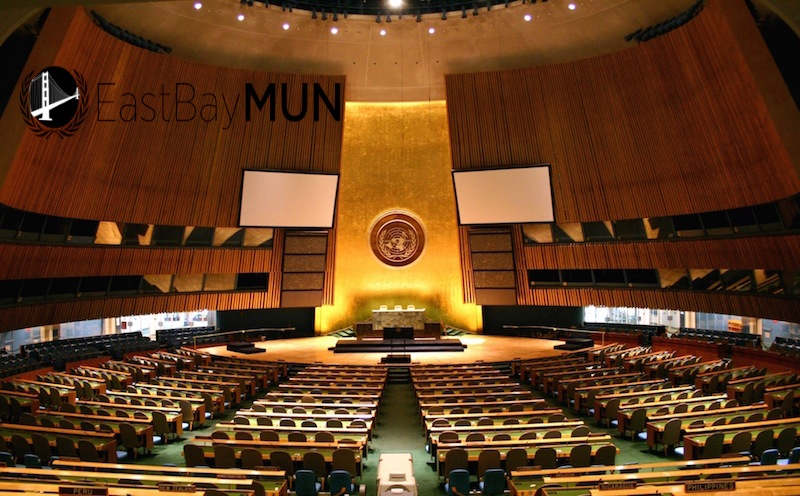
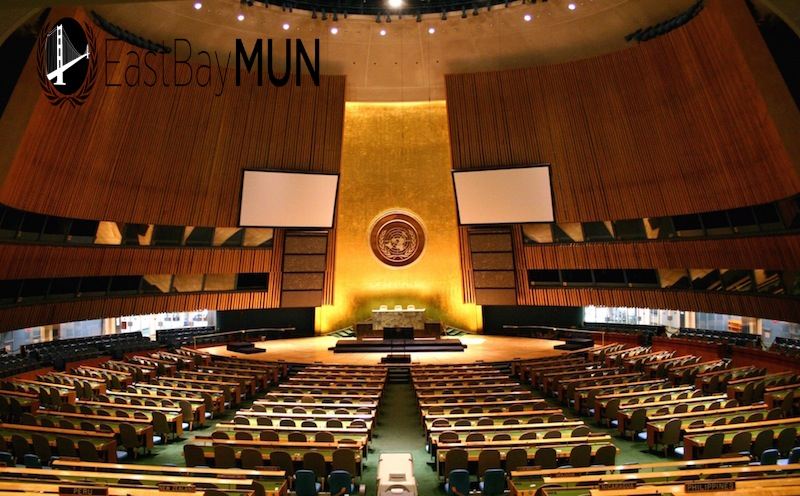
image reposition (^:

Changed region(s): [[0.0, 0.0302, 0.4375, 0.2722]]

diff --git a/css/agency.css b/css/agency.css
@@ -1,1 +1,1 @@
-body{background-color: lightblue;overflow-x:hidden;font-family:"Roboto Slab","Helvetica Neue",Helvetica,Arial,sans-serif}.text-muted{color:#777}.text-primary{color:#fed136}p{font-size:14px;line-height:1.75}p.large{font-size:16px}a,a:hover,a:focus,a:active,a.active{outline:0}a{color:#fed136}a:hover,a:focus,a:active,a.active{color:#fec503}h1,h2,h3,h4,h5,h6{font-family:Montserrat,"Helvetica Neue",Helvetica,Arial,sans-serif;text-transform:uppercase;font-weight:700}.img-centered{margin:0 auto}.bg-light-gray{background-color:#f7f7f7}.bg-darkest-gray{background-color:#222}.btn-primary{color:#fff;background-color:#0000FF;border-color:#fed136;font-family:Montserrat,"Helvetica Neue",Helvetica,Arial,sans-serif;text-transform:uppercase;font-weight:700}.btn-primary:hover,.btn-primary:focus,.btn-primary:active,.btn-primary.active,.open .dropdown-toggle.btn-primary{color:#fff;background-color:#fec503;border-color:#f6bf01}.btn-primary:active,.btn-primary.active,.open .dropdown-toggle.btn-primary{background-image:none}.btn-primary.disabled,.btn-primary[disabled],fieldset[disabled] .btn-primary,.btn-primary.disabled:hover,.btn-primary[disabled]:hover,fieldset[disabled] .btn-primary:hover,.btn-primary.disabled:focus,.btn-primary[disabled]:focus,fieldset[disabled] .btn-primary:focus,.btn-primary.disabled:active,.btn-primary[disabled]:active,fieldset[disabled] .btn-primary:active,.btn-primary.disabled.active,.btn-primary[disabled].active,fieldset[disabled] .btn-primary.active{background-color:#fed136;border-color:#fed136}.btn-primary .badge{color:#fed136;background-color:#fff}.btn-xl{color:#fff;background-color:#fed136;border-color:#fed136;font-family:Montserrat,"Helvetica Neue",Helvetica,Arial,sans-serif;text-transform:uppercase;font-weight:700;border-radius:3px;font-size:18px;padding:20px 40px}.btn-xl:hover,.btn-xl:focus,.btn-xl:active,.btn-xl.active,.open .dropdown-toggle.btn-xl{color:#fff;background-color:#fec503;border-color:#f6bf01}.btn-xl:active,.btn-xl.active,.open .dropdown-toggle.btn-xl{background-image:none}.btn-xl.disabled,.btn-xl[disabled],fieldset[disabled] .btn-xl,.btn-xl.disabled:hover,.btn-xl[disabled]:hover,fieldset[disabled] .btn-xl:hover,.btn-xl.disabled:focus,.btn-xl[disabled]:focus,fieldset[disabled] .btn-xl:focus,.btn-xl.disabled:active,.btn-xl[disabled]:active,fieldset[disabled] .btn-xl:active,.btn-xl.disabled.active,.btn-xl[disabled].active,fieldset[disabled] .btn-xl.active{background-color:#fed136;border-color:#fed136}.btn-xl .badge{color:#fed136;background-color:#fff}.navbar-default{background-color:#222;border-color:transparent}.navbar-default .navbar-brand{color:#fed136;font-family:"Kaushan Script","Helvetica Neue",Helvetica,Arial,cursive}.navbar-default .navbar-brand:hover,.navbar-default .navbar-brand:focus,.navbar-default .navbar-brand:active,.navbar-default .navbar-brand.active{color:#fec503}.navbar-default .navbar-collapse{border-color:rgba(255,255,255,.02)}.navbar-default .navbar-toggle{background-color:#fed136;border-color:#fed136}.navbar-default .navbar-toggle .icon-bar{background-color:#fff}.navbar-default .navbar-toggle:hover,.navbar-default .navbar-toggle:focus{background-color:#fed136}.navbar-default .nav li a{font-family:Montserrat,"Helvetica Neue",Helvetica,Arial,sans-serif;text-transform:uppercase;font-weight:400;letter-spacing:1px;color:#fff}.navbar-default .nav li a:hover,.navbar-default .nav li a:focus{color:#fed136;outline:0}.navbar-default .navbar-nav>.active>a{border-radius:0;color:#fff;background-color:#fed136}.navbar-default .navbar-nav>.active>a:hover,.navbar-default .navbar-nav>.active>a:focus{color:#fff;background-color:#fec503}@media (min-width:768px){.navbar-default{background-color:transparent;padding:25px 0;-webkit-transition:padding .3s;-moz-transition:padding .3s;transition:padding .3s;border:0}.navbar-default .navbar-brand{font-size:2em;-webkit-transition:all .3s;-moz-transition:all .3s;transition:all .3s}.navbar-default .navbar-nav>.active>a{border-radius:3px}.navbar-default.navbar-shrink{background-color:#222;padding:10px 0}.navbar-default.navbar-shrink .navbar-brand{font-size:1.5em}}header{background-image:url(../img/header-bg.jpg);background-repeat:none;background-attachment:scroll;background-position:center center;-webkit-background-size:cover;-moz-background-size:cover;background-size:cover;-o-background-size:cover;text-align:center;color:#fff}header .intro-text{padding-top:100px;padding-bottom:50px}header .intro-text .intro-lead-in{font-family:"Droid Serif","Helvetica Neue",Helvetica,Arial,sans-serif;font-style:italic;font-size:22px;line-height:22px;margin-bottom:25px}header .intro-text .intro-heading{color: #00008B; font-family:Montserrat,"Helvetica Neue",Helvetica,Arial,sans-serif;text-transform:uppercase;font-weight:700;font-size:50px;line-height:50px;margin-bottom:25px}@media (min-width:768px){header .intro-text{padding-top:300px;padding-bottom:200px}header .intro-text .intro-lead-in{font-family:"Droid Serif","Helvetica Neue",Helvetica,Arial,sans-serif;font-style:italic;font-size:40px;line-height:40px;margin-bottom:25px}header .intro-text .intro-heading{color: white; font-family:Montserrat,"Helvetica Neue",Helvetica,Arial,sans-serif;text-transform:uppercase;font-weight:700;font-size:75px;line-height:75px;margin-bottom:50px}}section{padding:100px 0}section h2.section-heading{font-size:40px;margin-top:0;margin-bottom:15px}section h3.section-subheading{font-size:16px;font-family:"Droid Serif","Helvetica Neue",Helvetica,Arial,sans-serif;text-transform:none;font-style:italic;font-weight:400;margin-bottom:75px}@media (min-width:768px){section{padding:150px 0}}.service-heading{margin:15px 0;text-transform:none}#portfolio .portfolio-item{margin:0 0 15px;right:0}#portfolio .portfolio-item .portfolio-link{display:block;position:relative;max-width:400px;margin:0 auto}#portfolio .portfolio-item .portfolio-link .portfolio-hover{background:rgba(254,209,54,.9);position:absolute;width:100%;height:100%;opacity:0;transition:all ease .5s;-webkit-transition:all ease .5s;-moz-transition:all ease .5s}#portfolio .portfolio-item .portfolio-link .portfolio-hover:hover{opacity:1}#portfolio .portfolio-item .portfolio-link .portfolio-hover .portfolio-hover-content{position:absolute;width:100%;height:20px;font-size:20px;text-align:center;top:50%;margin-top:-12px;color:#fff}#portfolio .portfolio-item .portfolio-link .portfolio-hover .portfolio-hover-content i{margin-top:-12px}#portfolio .portfolio-item .portfolio-link .portfolio-hover .portfolio-hover-content h3,#portfolio .portfolio-item .portfolio-link .portfolio-hover .portfolio-hover-content h4{margin:0}#portfolio .portfolio-item .portfolio-caption{max-width:400px;margin:0 auto;background-color:#fff;text-align:center;padding:25px}#portfolio .portfolio-item .portfolio-caption h4{text-transform:none;margin:0}#portfolio .portfolio-item .portfolio-caption p{font-family:"Droid Serif","Helvetica Neue",Helvetica,Arial,sans-serif;font-style:italic;font-size:16px;margin:0}#portfolio *{z-index:2}@media (min-width:767px){#portfolio .portfolio-item{margin:0 0 30px}}.timeline{list-style:none;padding:0;position:relative}.timeline:before{top:0;bottom:0;position:absolute;content:"";width:2px;background-color:#f1f1f1;left:40px;margin-left:-1.5px}.timeline>li{margin-bottom:50px;position:relative;min-height:50px}.timeline>li:before,.timeline>li:after{content:" ";display:table}.timeline>li:after{clear:both}.timeline>li .timeline-panel{width:100%;float:right;padding:0 20px 0 100px;position:relative;text-align:left}.timeline>li .timeline-panel:before{border-left-width:0;border-right-width:15px;left:-15px;right:auto}.timeline>li .timeline-panel:after{border-left-width:0;border-right-width:14px;left:-14px;right:auto}.timeline>li .timeline-image{left:0;margin-left:0;width:80px;height:80px;position:absolute;z-index:100;background-color:#fed136;color:#fff;border-radius:100%;border:7px solid #f1f1f1;text-align:center}.timeline>li .timeline-image h4{font-size:10px;margin-top:12px;line-height:14px}.timeline>li.timeline-inverted>.timeline-panel{float:right;text-align:left;padding:0 20px 0 100px}.timeline>li.timeline-inverted>.timeline-panel:before{border-left-width:0;border-right-width:15px;left:-15px;right:auto}.timeline>li.timeline-inverted>.timeline-panel:after{border-left-width:0;border-right-width:14px;left:-14px;right:auto}.timeline>li:last-child{margin-bottom:0}.timeline .timeline-heading h4{margin-top:0;color:inherit}.timeline .timeline-heading h4.subheading{text-transform:none}.timeline .timeline-body>p,.timeline .timeline-body>ul{margin-bottom:0}@media (min-width:768px){.timeline:before{left:50%}.timeline>li{margin-bottom:100px;min-height:100px}.timeline>li .timeline-panel{width:41%;float:left;padding:0 20px 20px 30px;text-align:right}.timeline>li .timeline-image{width:100px;height:100px;left:50%;margin-left:-50px}.timeline>li .timeline-image h4{font-size:13px;margin-top:16px;line-height:18px}.timeline>li.timeline-inverted>.timeline-panel{float:right;text-align:left;padding:0 30px 20px 20px}}@media (min-width:992px){.timeline>li{min-height:150px}.timeline>li .timeline-panel{padding:0 20px 20px}.timeline>li .timeline-image{width:150px;height:150px;margin-left:-75px}.timeline>li .timeline-image h4{font-size:18px;margin-top:30px;line-height:26px}.timeline>li.timeline-inverted>.timeline-panel{padding:0 20px 20px}}@media (min-width:1200px){.timeline>li{min-height:170px}.timeline>li .timeline-panel{padding:0 20px 20px 100px}.timeline>li .timeline-image{width:170px;height:170px;margin-left:-85px}.timeline>li .timeline-image h4{margin-top:40px}.timeline>li.timeline-inverted>.timeline-panel{padding:0 100px 20px 20px}}.team-member{text-align:center;margin-bottom:50px}.team-member img{margin:0 auto;border:7px solid #fff}.team-member h4{margin-top:25px;margin-bottom:0;text-transform:none}.team-member p{margin-top:0}aside.clients img{margin:50px auto}section#contact{background-color:#222;background-image:url(../img/map-image.png);background-position:center;background-repeat:no-repeat}section#contact .section-heading{wfff}section#contact .form-group{margin-bottom:25px}section#contact .form-group input,section#contact .form-group textarea{padding:20px}section#contact .form-group input.form-control{height:auto}section#contact .form-group textarea.form-control{height:236px}section#contact .form-control:focus{border-color:#fed136;box-shadow:none}section#contact ::-webkit-input-placeholder{font-family:Montserrat,"Helvetica Neue",Helvetica,Arial,sans-serif;text-transform:uppercase;font-weight:700;color:#bbb}section#contact :-moz-placeholder{font-family:Montserrat,"Helvetica Neue",Helvetica,Arial,sans-serif;text-transform:uppercase;font-weight:700;color:#bbb}section#contact ::-moz-placeholder{font-family:Montserrat,"Helvetica Neue",Helvetica,Arial,sans-serif;text-transform:uppercase;font-weight:700;color:#bbb}section#contact :-ms-input-placeholder{font-family:Montserrat,"Helvetica Neue",Helvetica,Arial,sans-serif;text-transform:uppercase;font-weight:700;color:#bbb}section#contact .text-danger{color:#e74c3c}footer{padding:25px 0;text-align:center}footer span.copyright{line-height:40px;font-family:Montserrat,"Helvetica Neue",Helvetica,Arial,sans-serif;text-transform:uppercase;text-transform:none}footer ul.quicklinks{margin-bottom:0;line-height:40px;font-family:Montserrat,"Helvetica Neue",Helvetica,Arial,sans-serif;text-transform:uppercase;text-transform:none}ul.social-buttons{margin-bottom:0}ul.social-buttons li a{display:block;background-color:#222;height:40px;width:40px;border-radius:100%;font-size:20px;line-height:40px;color:#fff;outline:0;-webkit-transition:all .3s;-moz-transition:all .3s;transition:all .3s}ul.social-buttons li a:hover,ul.social-buttons li a:focus,ul.social-buttons li a:active{background-color:#fed136}.btn:focus,.btn:active,.btn.active,.btn:active:focus{outline:0}.portfolio-modal .modal-content{border-radius:0;background-clip:border-box;-webkit-box-shadow:none;box-shadow:none;border:0;min-height:100%;padding:100px 0;text-align:center}.portfolio-modal .modal-content h2{margin-bottom:15px;font-size:3em}.portfolio-modal .modal-content p{margin-bottom:30px}.portfolio-modal .modal-content p.item-intro{margin:20px 0 30px;font-family:"Droid Serif","Helvetica Neue",Helvetica,Arial,sans-serif;font-style:italic;font-size:16px}.portfolio-modal .modal-content ul.list-inline{margin-bottom:30px;margin-top:0}.portfolio-modal .modal-content img{margin-bottom:30px}.portfolio-modal .close-modal{position:absolute;width:75px;height:75px;background-color:transparent;top:25px;right:25px;cursor:pointer}.portfolio-modal .close-modal:hover{opacity:.3}.portfolio-modal .close-modal .lr{height:75px;width:1px;margin-left:35px;background-color:#222;transform:rotate(45deg);-ms-transform:rotate(45deg);-webkit-transform:rotate(45deg);z-index:1051}.portfolio-modal .close-modal .lr .rl{height:75px;width:1px;background-color:#222;transform:rotate(90deg);-ms-transform:rotate(90deg);-webkit-transform:rotate(90deg);z-index:1052}.portfolio-modal .modal-backdrop{opacity:0;display:none}::-moz-selection{text-shadow:none;background:#fed136}::selection{text-shadow:none;background:#fed136}img::selection{background:0 0}img::-moz-selection{background:0 0}body{webkit-tap-highlight-color:#fed136}
+body{background-color: lightblue;overflow-x:hidden;font-family:"Roboto Slab","Helvetica Neue",Helvetica,Arial,sans-serif}.text-muted{color:#777}.text-primary{color:#fed136}p{font-size:14px;line-height:1.75}p.large{font-size:16px}a,a:hover,a:focus,a:active,a.active{outline:0}a{color:#fed136}a:hover,a:focus,a:active,a.active{color:#fec503}h1,h2,h3,h4,h5,h6{font-family:Montserrat,"Helvetica Neue",Helvetica,Arial,sans-serif;text-transform:uppercase;font-weight:700}.img-centered{margin:0 auto}.bg-light-gray{background-color:#f7f7f7}.bg-darkest-gray{background-color:#222}.btn-primary{color:#fff;background-color:#0000FF;border-color:#fed136;font-family:Montserrat,"Helvetica Neue",Helvetica,Arial,sans-serif;text-transform:uppercase;font-weight:700}.btn-primary:hover,.btn-primary:focus,.btn-primary:active,.btn-primary.active,.open .dropdown-toggle.btn-primary{color:#fff;background-color:#fec503;border-color:#f6bf01}.btn-primary:active,.btn-primary.active,.open .dropdown-toggle.btn-primary{background-image:none}.btn-primary.disabled,.btn-primary[disabled],fieldset[disabled] .btn-primary,.btn-primary.disabled:hover,.btn-primary[disabled]:hover,fieldset[disabled] .btn-primary:hover,.btn-primary.disabled:focus,.btn-primary[disabled]:focus,fieldset[disabled] .btn-primary:focus,.btn-primary.disabled:active,.btn-primary[disabled]:active,fieldset[disabled] .btn-primary:active,.btn-primary.disabled.active,.btn-primary[disabled].active,fieldset[disabled] .btn-primary.active{background-color:#fed136;border-color:#fed136}.btn-primary .badge{color:#fed136;background-color:#fff}.btn-xl{color:#fff;background-color:#fed136;border-color:#fed136;font-family:Montserrat,"Helvetica Neue",Helvetica,Arial,sans-serif;text-transform:uppercase;font-weight:700;border-radius:3px;font-size:18px;padding:20px 40px}.btn-xl:hover,.btn-xl:focus,.btn-xl:active,.btn-xl.active,.open .dropdown-toggle.btn-xl{color:#fff;background-color:#fec503;border-color:#f6bf01}.btn-xl:active,.btn-xl.active,.open .dropdown-toggle.btn-xl{background-image:none}.btn-xl.disabled,.btn-xl[disabled],fieldset[disabled] .btn-xl,.btn-xl.disabled:hover,.btn-xl[disabled]:hover,fieldset[disabled] .btn-xl:hover,.btn-xl.disabled:focus,.btn-xl[disabled]:focus,fieldset[disabled] .btn-xl:focus,.btn-xl.disabled:active,.btn-xl[disabled]:active,fieldset[disabled] .btn-xl:active,.btn-xl.disabled.active,.btn-xl[disabled].active,fieldset[disabled] .btn-xl.active{background-color:#fed136;border-color:#fed136}.btn-xl .badge{color:#fed136;background-color:#fff}.navbar-default{background-color:#222;border-color:transparent}.navbar-default .navbar-brand{color:#fed136;font-family:"Kaushan Script","Helvetica Neue",Helvetica,Arial,cursive}.navbar-default .navbar-brand:hover,.navbar-default .navbar-brand:focus,.navbar-default .navbar-brand:active,.navbar-default .navbar-brand.active{color:#fec503}.navbar-default .navbar-collapse{border-color:rgba(255,255,255,.02)}.navbar-default .navbar-toggle{background-color:#fed136;border-color:#fed136}.navbar-default .navbar-toggle .icon-bar{background-color:#fff}.navbar-default .navbar-toggle:hover,.navbar-default .navbar-toggle:focus{background-color:#fed136}.navbar-default .nav li a{font-family:Montserrat,"Helvetica Neue",Helvetica,Arial,sans-serif;text-transform:uppercase;font-weight:400;letter-spacing:1px;color:#fff}.navbar-default .nav li a:hover,.navbar-default .nav li a:focus{color:#fed136;outline:0}.navbar-default .navbar-nav>.active>a{border-radius:0;color:#fff;background-color:#fed136}.navbar-default .navbar-nav>.active>a:hover,.navbar-default .navbar-nav>.active>a:focus{color:#fff;background-color:#fec503}@media (min-width:768px){.navbar-default{background-color:transparent;padding:25px 0;-webkit-transition:padding .3s;-moz-transition:padding .3s;transition:padding .3s;border:0}.navbar-default .navbar-brand{font-size:2em;-webkit-transition:all .3s;-moz-transition:all .3s;transition:all .3s}.navbar-default .navbar-nav>.active>a{border-radius:3px}.navbar-default.navbar-shrink{background-color:#222;padding:10px 0}.navbar-default.navbar-shrink .navbar-brand{font-size:1.5em}}header{background-image:url(../img/header-bg.jpg);background-repeat:none;background-attachment:scroll;background-position:right top;-webkit-background-size:cover;-moz-background-size:cover;background-size:cover;-o-background-size:cover;text-align:center;color:#fff}header .intro-text{padding-top:100px;padding-bottom:50px}header .intro-text .intro-lead-in{font-family:"Droid Serif","Helvetica Neue",Helvetica,Arial,sans-serif;font-style:italic;font-size:22px;line-height:22px;margin-bottom:25px}header .intro-text .intro-heading{color: #00008B; font-family:Montserrat,"Helvetica Neue",Helvetica,Arial,sans-serif;text-transform:uppercase;font-weight:700;font-size:50px;line-height:50px;margin-bottom:25px}@media (min-width:768px){header .intro-text{padding-top:300px;padding-bottom:200px}header .intro-text .intro-lead-in{font-family:"Droid Serif","Helvetica Neue",Helvetica,Arial,sans-serif;font-style:italic;font-size:40px;line-height:40px;margin-bottom:25px}header .intro-text .intro-heading{color: white; font-family:Montserrat,"Helvetica Neue",Helvetica,Arial,sans-serif;text-transform:uppercase;font-weight:700;font-size:75px;line-height:75px;margin-bottom:50px}}section{padding:100px 0}section h2.section-heading{font-size:40px;margin-top:0;margin-bottom:15px}section h3.section-subheading{font-size:16px;font-family:"Droid Serif","Helvetica Neue",Helvetica,Arial,sans-serif;text-transform:none;font-style:italic;font-weight:400;margin-bottom:75px}@media (min-width:768px){section{padding:150px 0}}.service-heading{margin:15px 0;text-transform:none}#portfolio .portfolio-item{margin:0 0 15px;right:0}#portfolio .portfolio-item .portfolio-link{display:block;position:relative;max-width:400px;margin:0 auto}#portfolio .portfolio-item .portfolio-link .portfolio-hover{background:rgba(254,209,54,.9);position:absolute;width:100%;height:100%;opacity:0;transition:all ease .5s;-webkit-transition:all ease .5s;-moz-transition:all ease .5s}#portfolio .portfolio-item .portfolio-link .portfolio-hover:hover{opacity:1}#portfolio .portfolio-item .portfolio-link .portfolio-hover .portfolio-hover-content{position:absolute;width:100%;height:20px;font-size:20px;text-align:center;top:50%;margin-top:-12px;color:#fff}#portfolio .portfolio-item .portfolio-link .portfolio-hover .portfolio-hover-content i{margin-top:-12px}#portfolio .portfolio-item .portfolio-link .portfolio-hover .portfolio-hover-content h3,#portfolio .portfolio-item .portfolio-link .portfolio-hover .portfolio-hover-content h4{margin:0}#portfolio .portfolio-item .portfolio-caption{max-width:400px;margin:0 auto;background-color:#fff;text-align:center;padding:25px}#portfolio .portfolio-item .portfolio-caption h4{text-transform:none;margin:0}#portfolio .portfolio-item .portfolio-caption p{font-family:"Droid Serif","Helvetica Neue",Helvetica,Arial,sans-serif;font-style:italic;font-size:16px;margin:0}#portfolio *{z-index:2}@media (min-width:767px){#portfolio .portfolio-item{margin:0 0 30px}}.timeline{list-style:none;padding:0;position:relative}.timeline:before{top:0;bottom:0;position:absolute;content:"";width:2px;background-color:#f1f1f1;left:40px;margin-left:-1.5px}.timeline>li{margin-bottom:50px;position:relative;min-height:50px}.timeline>li:before,.timeline>li:after{content:" ";display:table}.timeline>li:after{clear:both}.timeline>li .timeline-panel{width:100%;float:right;padding:0 20px 0 100px;position:relative;text-align:left}.timeline>li .timeline-panel:before{border-left-width:0;border-right-width:15px;left:-15px;right:auto}.timeline>li .timeline-panel:after{border-left-width:0;border-right-width:14px;left:-14px;right:auto}.timeline>li .timeline-image{left:0;margin-left:0;width:80px;height:80px;position:absolute;z-index:100;background-color:#fed136;color:#fff;border-radius:100%;border:7px solid #f1f1f1;text-align:center}.timeline>li .timeline-image h4{font-size:10px;margin-top:12px;line-height:14px}.timeline>li.timeline-inverted>.timeline-panel{float:right;text-align:left;padding:0 20px 0 100px}.timeline>li.timeline-inverted>.timeline-panel:before{border-left-width:0;border-right-width:15px;left:-15px;right:auto}.timeline>li.timeline-inverted>.timeline-panel:after{border-left-width:0;border-right-width:14px;left:-14px;right:auto}.timeline>li:last-child{margin-bottom:0}.timeline .timeline-heading h4{margin-top:0;color:inherit}.timeline .timeline-heading h4.subheading{text-transform:none}.timeline .timeline-body>p,.timeline .timeline-body>ul{margin-bottom:0}@media (min-width:768px){.timeline:before{left:50%}.timeline>li{margin-bottom:100px;min-height:100px}.timeline>li .timeline-panel{width:41%;float:left;padding:0 20px 20px 30px;text-align:right}.timeline>li .timeline-image{width:100px;height:100px;left:50%;margin-left:-50px}.timeline>li .timeline-image h4{font-size:13px;margin-top:16px;line-height:18px}.timeline>li.timeline-inverted>.timeline-panel{float:right;text-align:left;padding:0 30px 20px 20px}}@media (min-width:992px){.timeline>li{min-height:150px}.timeline>li .timeline-panel{padding:0 20px 20px}.timeline>li .timeline-image{width:150px;height:150px;margin-left:-75px}.timeline>li .timeline-image h4{font-size:18px;margin-top:30px;line-height:26px}.timeline>li.timeline-inverted>.timeline-panel{padding:0 20px 20px}}@media (min-width:1200px){.timeline>li{min-height:170px}.timeline>li .timeline-panel{padding:0 20px 20px 100px}.timeline>li .timeline-image{width:170px;height:170px;margin-left:-85px}.timeline>li .timeline-image h4{margin-top:40px}.timeline>li.timeline-inverted>.timeline-panel{padding:0 100px 20px 20px}}.team-member{text-align:center;margin-bottom:50px}.team-member img{margin:0 auto;border:7px solid #fff}.team-member h4{margin-top:25px;margin-bottom:0;text-transform:none}.team-member p{margin-top:0}aside.clients img{margin:50px auto}section#contact{background-color:#222;background-image:url(../img/map-image.png);background-position:center;background-repeat:no-repeat}section#contact .section-heading{wfff}section#contact .form-group{margin-bottom:25px}section#contact .form-group input,section#contact .form-group textarea{padding:20px}section#contact .form-group input.form-control{height:auto}section#contact .form-group textarea.form-control{height:236px}section#contact .form-control:focus{border-color:#fed136;box-shadow:none}section#contact ::-webkit-input-placeholder{font-family:Montserrat,"Helvetica Neue",Helvetica,Arial,sans-serif;text-transform:uppercase;font-weight:700;color:#bbb}section#contact :-moz-placeholder{font-family:Montserrat,"Helvetica Neue",Helvetica,Arial,sans-serif;text-transform:uppercase;font-weight:700;color:#bbb}section#contact ::-moz-placeholder{font-family:Montserrat,"Helvetica Neue",Helvetica,Arial,sans-serif;text-transform:uppercase;font-weight:700;color:#bbb}section#contact :-ms-input-placeholder{font-family:Montserrat,"Helvetica Neue",Helvetica,Arial,sans-serif;text-transform:uppercase;font-weight:700;color:#bbb}section#contact .text-danger{color:#e74c3c}footer{padding:25px 0;text-align:center}footer span.copyright{line-height:40px;font-family:Montserrat,"Helvetica Neue",Helvetica,Arial,sans-serif;text-transform:uppercase;text-transform:none}footer ul.quicklinks{margin-bottom:0;line-height:40px;font-family:Montserrat,"Helvetica Neue",Helvetica,Arial,sans-serif;text-transform:uppercase;text-transform:none}ul.social-buttons{margin-bottom:0}ul.social-buttons li a{display:block;background-color:#222;height:40px;width:40px;border-radius:100%;font-size:20px;line-height:40px;color:#fff;outline:0;-webkit-transition:all .3s;-moz-transition:all .3s;transition:all .3s}ul.social-buttons li a:hover,ul.social-buttons li a:focus,ul.social-buttons li a:active{background-color:#fed136}.btn:focus,.btn:active,.btn.active,.btn:active:focus{outline:0}.portfolio-modal .modal-content{border-radius:0;background-clip:border-box;-webkit-box-shadow:none;box-shadow:none;border:0;min-height:100%;padding:100px 0;text-align:center}.portfolio-modal .modal-content h2{margin-bottom:15px;font-size:3em}.portfolio-modal .modal-content p{margin-bottom:30px}.portfolio-modal .modal-content p.item-intro{margin:20px 0 30px;font-family:"Droid Serif","Helvetica Neue",Helvetica,Arial,sans-serif;font-style:italic;font-size:16px}.portfolio-modal .modal-content ul.list-inline{margin-bottom:30px;margin-top:0}.portfolio-modal .modal-content img{margin-bottom:30px}.portfolio-modal .close-modal{position:absolute;width:75px;height:75px;background-color:transparent;top:25px;right:25px;cursor:pointer}.portfolio-modal .close-modal:hover{opacity:.3}.portfolio-modal .close-modal .lr{height:75px;width:1px;margin-left:35px;background-color:#222;transform:rotate(45deg);-ms-transform:rotate(45deg);-webkit-transform:rotate(45deg);z-index:1051}.portfolio-modal .close-modal .lr .rl{height:75px;width:1px;background-color:#222;transform:rotate(90deg);-ms-transform:rotate(90deg);-webkit-transform:rotate(90deg);z-index:1052}.portfolio-modal .modal-backdrop{opacity:0;display:none}::-moz-selection{text-shadow:none;background:#fed136}::selection{text-shadow:none;background:#fed136}img::selection{background:0 0}img::-moz-selection{background:0 0}body{webkit-tap-highlight-color:#fed136}
